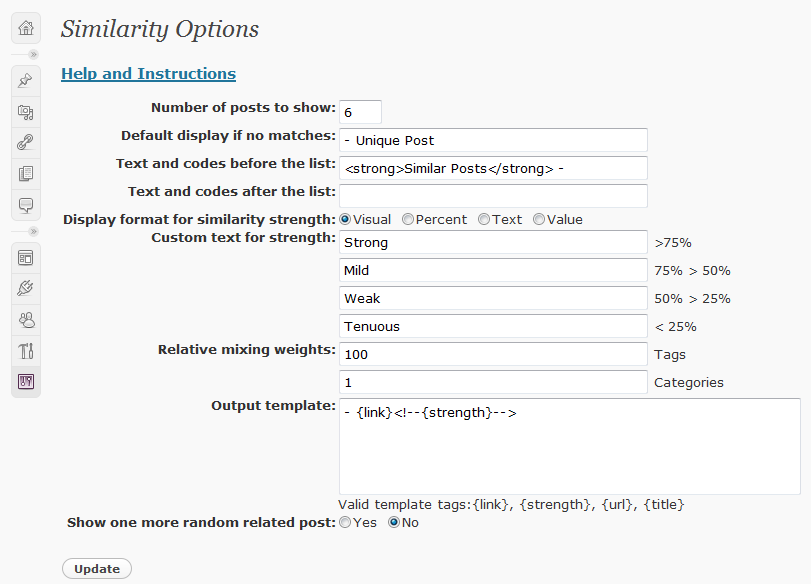
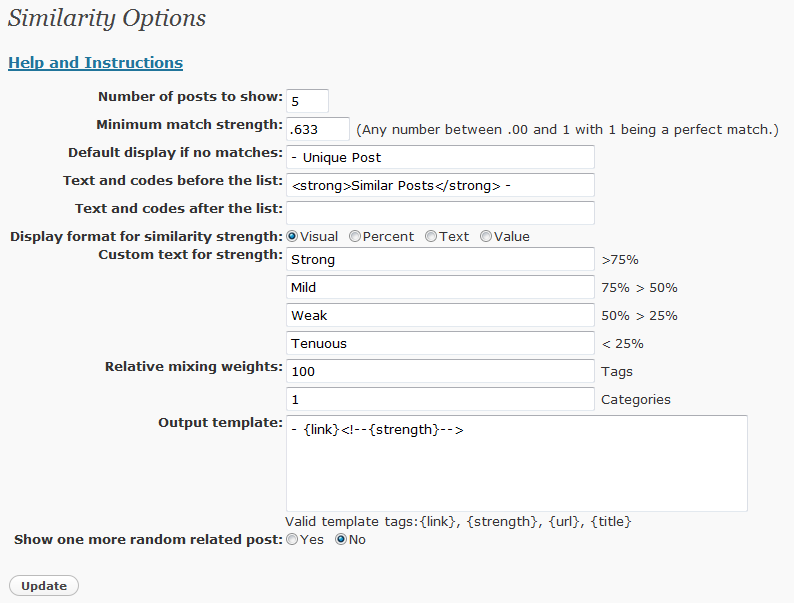
git-svn-id: https://plugins.svn.wordpress.org/similarity/trunk@107784 b8457f37-d9ea-0310-8a92-e5e31aec5664

diff --git a/similarity.php b/similarity.php
@@ -3,7 +3,7 @@
 Plugin Name: Similarity
 Plugin URI: http://www.davidjmiller.org/2008/similarity/
 Description: Returns links to similar posts. Similarity is determined by the way posts are tagged or by their categories. Compatible with Wordpress 2.3 and above. (Tested on 2.3, 2.5, 2.6, 2.7)
-Version: 2.0
+Version: 2.1
 Author: David Miller
 Author URI: http://www.davidjmiller.org/
 */
@@ -44,6 +44,7 @@ function print_similarity($list) {
 	$prefix = stripslashes($options['prefix']);
 	$suffix = stripslashes($options['suffix']);
 	$format = stripslashes($options['format']);
+	$minimum_strength = stripslashes($options['minimum_strength']);
 	$output_template = stripslashes($options['output_template']);
 	// an empty output_template makes no sense so we fall back to the default
 	if ($output_template == '') $output_template = '<li>{link} ({strength})</li>';
@@ -56,67 +57,72 @@ function print_similarity($list) {
 		}
 		$returnable = 'false';
 		for ($i = 0; $i < $limit; $i++) {
-			$post = get_post($list[$i]['post_id']);
-			switch ($post->post_status) {
-			case 'private':
-				$show = 'false';
-				if (($current_user->ID == $post->post_author)
-				|| ($current_user->has_cap('read_private_posts')))  { // Author and those with capability
-					$show = 'true';
-					$returnable = 'true';
-				}
-				break;
-			case 'draft': //unpublished posts
-				$show = 'false';
-				if ($current_user->ID == $post->post_author) { // Author only
-					$show = 'true';
-					$returnable = 'true';
-				}
-				break;
-			case 'inherit': //non-posts (such as images) picked up by the query (who knew)
-				$show = 'false';
-				break;
-			default: // show non-private posts to anyone
-				$show = 'true';
+			if ($minimum_strength > $list[$i]['strength']) {
 				$returnable = 'true';
-				break;
-			}
-			if ($show == 'true') {
-				switch ($format)
-				{
-				case 'percent':
-					$list[$i][' strength'] = ($list[$i]['strength'] * 100) . '%';
-					break;  
-				case 'text':
-					if ($list[$i]['strength'] > 0.75) {
-						$list[$i]['strength'] = stripslashes($options['text_strong']);
-					} elseif ($list[$i]['strength'] > 0.5) {
-						$list[$i]['strength'] = stripslashes($options['text_mild']);
-					} elseif ($list[$i]['strength'] > 0.25) {
-						$list[$i]['strength'] = stripslashes($options['text_weak']);
-					} else {
-						$list[$i]['strength'] = stripslashes($options['text_tenuous']);
+				$i = $limit;
+			} else {
+				$post = get_post($list[$i]['post_id']);
+				switch ($post->post_status) {
+				case 'private':
+					$show = 'false';
+					if (($current_user->ID == $post->post_author)
+					|| ($current_user->has_cap('read_private_posts')))  { // Author and those with capability
+						$show = 'true';
+						$returnable = 'true';
 					}
-					break;  
-				case 'color':
-					$r = 255;
-					$g = 255;
-					if ($list[$i]['strength'] > 0.5) {
-						$r = 255 * (.5 - ($list[$i]['strength'] - .5));
-					} elseif ($list[$i]['strength'] < 0.5) {
-						$g = 513 * $list[$i]['strength'];
-					}
-					$shade = 'rgb('.number_format($r).', '.number_format($g).', 0)';
-					$list[$i]['strength'] = '<span style="background-color: '.$shade.'; border: #000 1px solid">&nbsp;&nbsp;&nbsp;</span>';
 					break;
-				default:
+				case 'draft': //unpublished posts
+					$show = 'false';
+					if ($current_user->ID == $post->post_author) { // Author only
+						$show = 'true';
+						$returnable = 'true';
+					}
+					break;
+				case 'inherit': //non-posts (such as images) picked up by the query (who knew)
+					$show = 'false';
+					break;
+				default: // show non-private posts to anyone
+					$show = 'true';
+					$returnable = 'true';
 					break;
 				}
-				$impression = str_replace("{title}",$post->post_title,str_replace("{url}",get_permalink($list[$i]['post_id']),str_replace("{strength}",$list[$i]['strength'],str_replace("{link}","<a href=\"{url}\">{title}</a>",$output_template))));
-				echo $impression . '<!-- ' . $post->post_status . ' -->';
-			} else {
-				if ($limit < sizeof($list)) {
-					$limit++;
+				if ($show == 'true') {
+					switch ($format)
+					{
+					case 'percent':
+						$list[$i][' strength'] = ($list[$i]['strength'] * 100) . '%';
+						break;  
+					case 'text':
+						if ($list[$i]['strength'] > 0.75) {
+							$list[$i]['strength'] = stripslashes($options['text_strong']);
+						} elseif ($list[$i]['strength'] > 0.5) {
+							$list[$i]['strength'] = stripslashes($options['text_mild']);
+						} elseif ($list[$i]['strength'] > 0.25) {
+							$list[$i]['strength'] = stripslashes($options['text_weak']);
+						} else {
+							$list[$i]['strength'] = stripslashes($options['text_tenuous']);
+						}
+						break;  
+					case 'color':
+						$r = 255;
+						$g = 255;
+						if ($list[$i]['strength'] > 0.5) {
+							$r = 255 * (.5 - ($list[$i]['strength'] - .5));
+						} elseif ($list[$i]['strength'] < 0.5) {
+							$g = 513 * $list[$i]['strength'];
+						}
+						$shade = 'rgb('.number_format($r).', '.number_format($g).', 0)';
+						$list[$i]['strength'] = '<span style="background-color: '.$shade.'; border: #000 1px solid">&nbsp;&nbsp;&nbsp;</span>';
+						break;
+					default:
+						break;
+					}
+					$impression = str_replace("{title}",$post->post_title,str_replace("{url}",get_permalink($list[$i]['post_id']),str_replace("{strength}",$list[$i]['strength'],str_replace("{link}","<a href=\"{url}\">{title}</a>",$output_template))));
+					echo $impression . '<!-- ' . $post->post_status . ' -->';
+				} else {
+					if ($limit < sizeof($list)) {
+						$limit++;
+					}
 				}
 			}
 		}
@@ -347,6 +353,11 @@ function options_page(){
 		$options['text_weak'] = $_POST['text_weak'];
 		$options['text_tenuous'] = $_POST['text_tenuous'];
 		$options['one_extra'] = $_POST['one_extra'];
+		if ((floatval($_POST['minimum_strength']) < 0) || (floatval($_POST['minimum_strength']) > 1)) {
+			$options['minimum_strength'] = 0;
+		} else {
+			$options['minimum_strength'] = floatval($_POST['minimum_strength']);
+		}
 
 		// store the option values under the plugin filename
 		update_option(basename(__FILE__, ".php"), $options);
@@ -368,6 +379,10 @@ function options_page(){
 			<tr valign="top">
 				<th scope="row" align="right"><?php _e('Number of posts to show', 'similarity') ?>:</th>
 				<td><input name="limit" type="text" id="limit" value="<?php echo $options['limit']; ?>" size="2" /></td>
+			</tr>
+			<tr valign="top">
+				<th scope="row" align="right"><?php _e('Minimum match strength', 'similarity') ?>:</th>
+				<td><input name="minimum_strength" type="text" id="minimum_strength" value="<?php echo $options['minimum_strength']; ?>" size="5" /> <?php _e('(Any number between .00 and 1 with 1 being a perfect match.)', 'similarity') ?></td>
 			</tr>
 			<tr valign="top">
 
